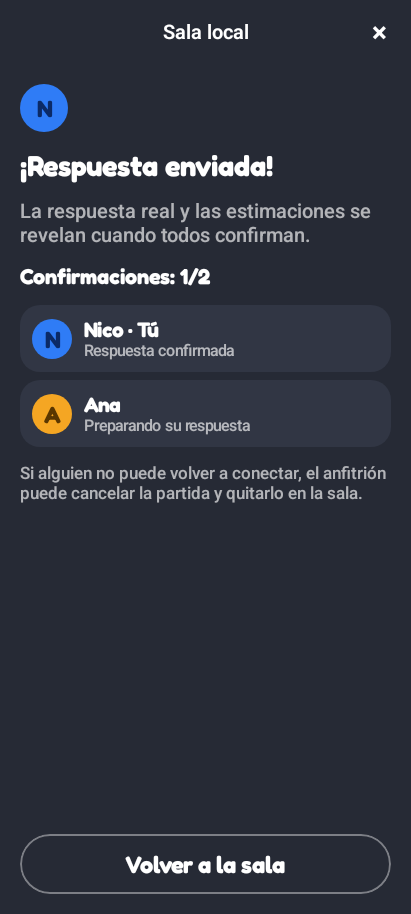
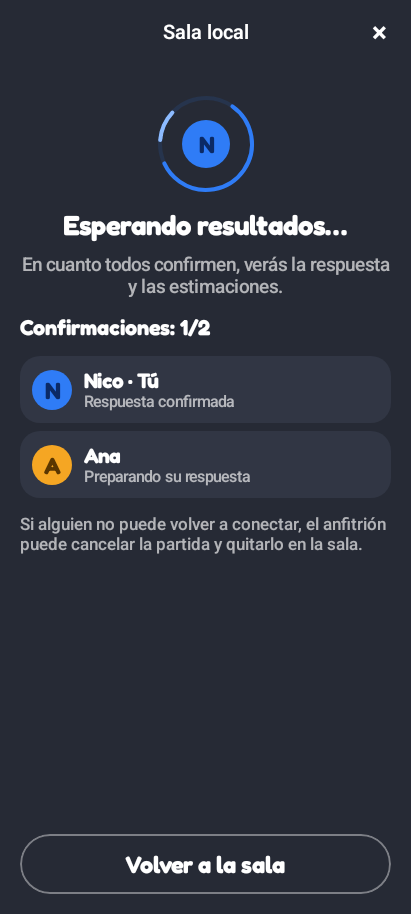
Record waiting animation frames and v1.0.6 validation

Changed region(s): [[0.0292, 0.0919, 0.9635, 0.6127], [0.5547, 0.0919, 0.5839, 0.1225]]

diff --git a/README.md b/README.md
@@ -2,9 +2,9 @@
 
 Juego nativo Android de trivia numérica para **2–8 personas**: pasando un teléfono o con un teléfono por jugador en **LAN por Wi-Fi/hotspot**. 400 preguntas en español y 12 categorías, sin servidores externos, anuncios ni analytics. No requiere acceso a Internet.
 
-**[Descargar APK firmado v1.0.5](https://github.com/TheMrAleX/CircaAndroid/releases/download/v1.0.5/Aproximado-v1.0.5-arm64-v8a.apk)** · [Release y SHA256](https://github.com/TheMrAleX/CircaAndroid/releases/tag/v1.0.5)
+**[Descargar APK firmado v1.0.6](https://github.com/TheMrAleX/CircaAndroid/releases/download/v1.0.6/Aproximado-v1.0.6-arm64-v8a.apk)** · [Release y SHA256](https://github.com/TheMrAleX/CircaAndroid/releases/tag/v1.0.6)
 
-**Firma y actualizaciones:** la firma de 1.0.5 difiere de 1.0.4. Android requiere desinstalar la anterior; se perderán los datos locales. [Detalle de firma](RELEASING.md).
+**Firma y actualizaciones:** consulta las notas de la release: si cambia la firma, Android requiere desinstalar la anterior y se pierden los datos locales. [Detalle de firma](RELEASING.md).
 
 ## LAN por Wi-Fi o hotspot
 
@@ -30,7 +30,7 @@ Si termina el proceso del anfitrión, la sala termina y hay que crear otra. Algu
 - **Revelación:** gráfica vertical de barras por estimación, línea de respuesta real, corona y leyenda de puntos.
 - **Marcador y resultado:** puntuación acumulada, puestos compartidos en empate y podio final.
 
-Novedades 1.0.5: modo LAN nativo con salas, descubrimiento local, entrada manual, anfitrión autoritativo, respuestas privadas simultáneas, reconexión y servicio de sesión activa. Se conserva el catálogo renovado de 400 preguntas, las cifras publicadas y el juego de un teléfono. [Cambios completos](docs/releases/v1.0.5.md).
+Novedades 1.0.6: pantalla LAN «Esperando resultados…» con anillo del color del jugador, giro EaseInOutCubic y pulsación suave. Se mantiene el contador real de confirmaciones y la revelación automática cuando todos terminan. [Vista previa animada](docs/screens/waiting_orbit.png) · [Cambios completos](docs/releases/v1.0.6.md).
 
 Ejemplos LAN: [crear sala](docs/screens/lan_entry_320x640_1.3_8p.png), [unirse](docs/screens/lan_join_form_320x640_1.3_8p.png) y [espera](docs/screens/lan_waiting_320x640_1.3_8p.png).
 

diff --git a/docs/VALIDATION.md b/docs/VALIDATION.md
@@ -1,4 +1,4 @@
-# Validación de Aproximado 1.0.5
+# Validación de Aproximado 1.0.6
 
 ## Alcance
 
@@ -94,3 +94,13 @@ Build release local 1.0.5 con R8, recursos reducidos y firma v2 correcto; lint r
 ## Publicación 1.0.5 verificada
 
[1 lines of base64/hex data omitted]
+
+## Espera animada 1.0.6
+
+174 casos correctos: 28 de motor/protocolo, 9 Android, 136 capturas y 1 prueba de animación. Se revisó la espera en 320×640/fontScale 1.3 con ocho jugadores: título, contador y controles visibles; roster desplazable. Anillo propio alrededor del avatar, giro EaseInOutCubic de 2200 ms y pulsación de 1100 ms, actualizados solo en graphicsLayer.
+
+Además de la fase fija de previews, WaitingMotionTest ejecuta el reloj real con LocalInspectionMode=false: 0–2200 ms a 10 fps, 23 fotogramas APNG y 22 imágenes distintas. Se revisaron fases de inicio/mitad y se comparó la referencia animada con verifyPaparazziDebug. Evidencia en docs/screens/waiting_orbit.png. No es una medición de rendimiento en hardware físico.
+
+`:core:test :app:verifyPaparazziDebug :app:lintDebug :app:assembleDebug` correcto; lint debug sin incidencias. El usuario informó que 1.0.5 funciona correctamente en su prueba física. Este entorno no realizó nuevas pruebas en teléfonos para 1.0.6.
+
+Build release local 1.0.6 con R8 y firma v2 correcto; lint release sin incidencias.

diff --git a/RELEASING.md b/RELEASING.md
@@ -1,6 +1,6 @@
 # Publicar Aproximado
 
-`release.yml` se ejecuta al enviar un tag `v*`. Requiere que el tag coincida con `versionName`. La versión actual es 1.0.5 (código 6). Ejecuta validación de las 400 preguntas, tests, lint release, R8 y reducción de recursos. Publica `Aproximado-v1.0.5-arm64-v8a.apk` firmado y su archivo SHA256 en GitHub Releases con notas generadas.
+`release.yml` se ejecuta al enviar un tag `v*`. Requiere que el tag coincida con `versionName`. La versión actual es 1.0.6 (código 7). Ejecuta validación de las 400 preguntas, tests, lint release, R8 y reducción de recursos. Publica `Aproximado-v1.0.6-arm64-v8a.apk` firmado y su archivo SHA256 en GitHub Releases con notas generadas.
 
 ## Firma estable (recomendada)
 
@@ -24,11 +24,11 @@ Desde el checkout ya commiteado en main, con Git autenticado:
 
 ```sh
 git push -u origin main
-git tag v1.0.5
-git push origin v1.0.5
+git tag v1.0.6
+git push origin v1.0.6
 ```
 
-Si el tag ya existe localmente, omite la segunda línea. Comprueba el resultado en Actions → Signed ARM64 release y en Releases. Con gh autenticado: `gh run list --workflow release.yml` y `gh release view v1.0.5`. El workflow usa `github.token` con `contents: write`; no requiere un PAT personal.
+Si el tag ya existe localmente, omite la segunda línea. Comprueba el resultado en Actions → Signed ARM64 release y en Releases. Con gh autenticado: `gh run list --workflow release.yml` y `gh release view v1.0.6`. El workflow usa `github.token` con `contents: write`; no requiere un PAT personal.
 
 ## ARMv8
 

diff --git a/docs/releases/v1.0.6.md b/docs/releases/v1.0.6.md
@@ -1,0 +1,7 @@
+# Aproximado 1.0.6
+
+- Tras confirmar antes que los demás en LAN, aparece «Esperando resultados…» con un anillo animado alrededor de tu avatar.
+- Giro EaseInOutCubic, pulsación suave y colores propios de cada jugador. Animación con Compose/Canvas, sin tráfico adicional de red.
+- Contador de confirmaciones accesible, lista desplazable y controles de la sala disponibles mientras esperas. Los resultados aparecen cuando todos terminan.
+
+Se conservan el modo de un teléfono, las salas LAN y las 400 preguntas. La prueba del usuario confirma el funcionamiento de 1.0.5 en sus dispositivos; esta revisión verifica la animación por fotogramas y layouts mediante renderizado automatizado, sin atribuir nuevas pruebas físicas al entorno.
